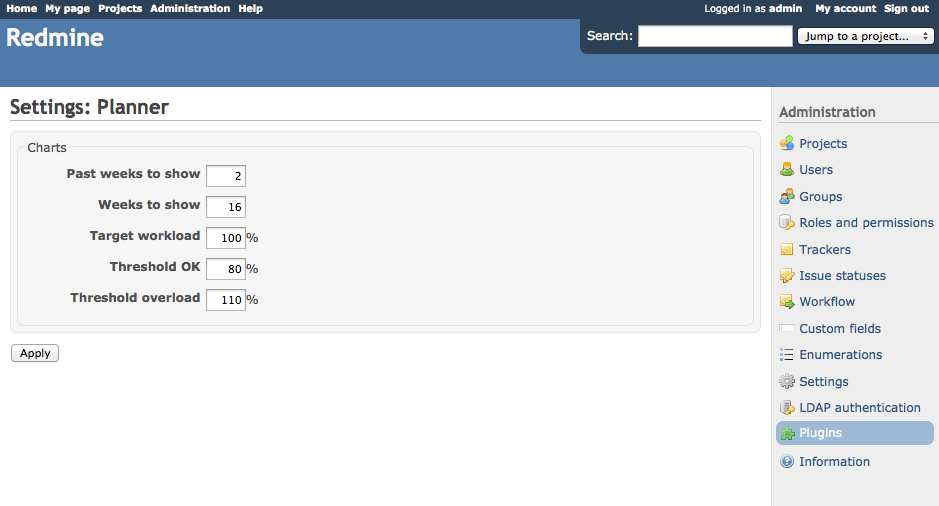
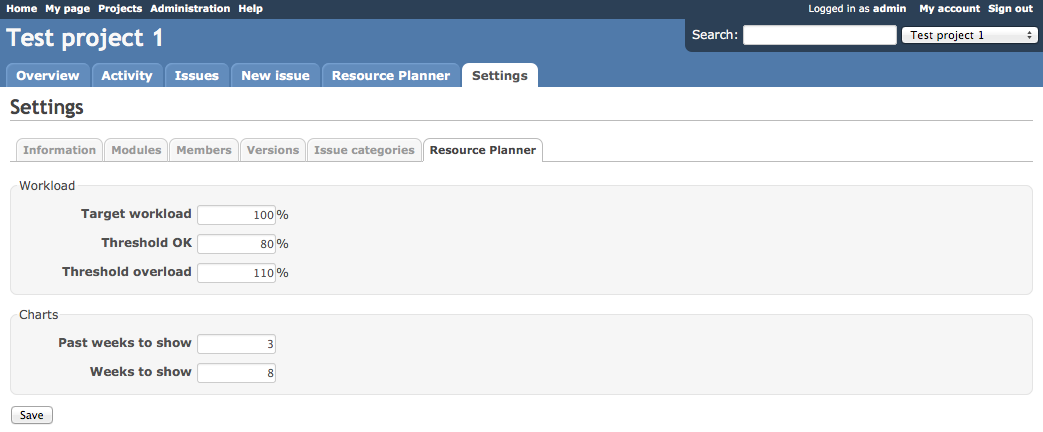
Doc: update for per project settings
Refs #173

diff --git a/doc/gettingstarted.md b/doc/gettingstarted.md
@@ -134,7 +134,7 @@ and the resource should get notified by email about the request.
 
 ## Tweak the visualization
 
-The generated charts can be tweaked. Planner has some settings under
-Administration -> Plugins -> Planner -> Configure
+The generated charts can be tweaked. Planner has some settings in the project
+configuration. Within a planning project, select "Settings -> Resource Planner".
 
 ![Planner settings](https://github.com/dr-itz/RedminePlannerPlugin/raw/master/doc/img/scr-planner-settings.png)
